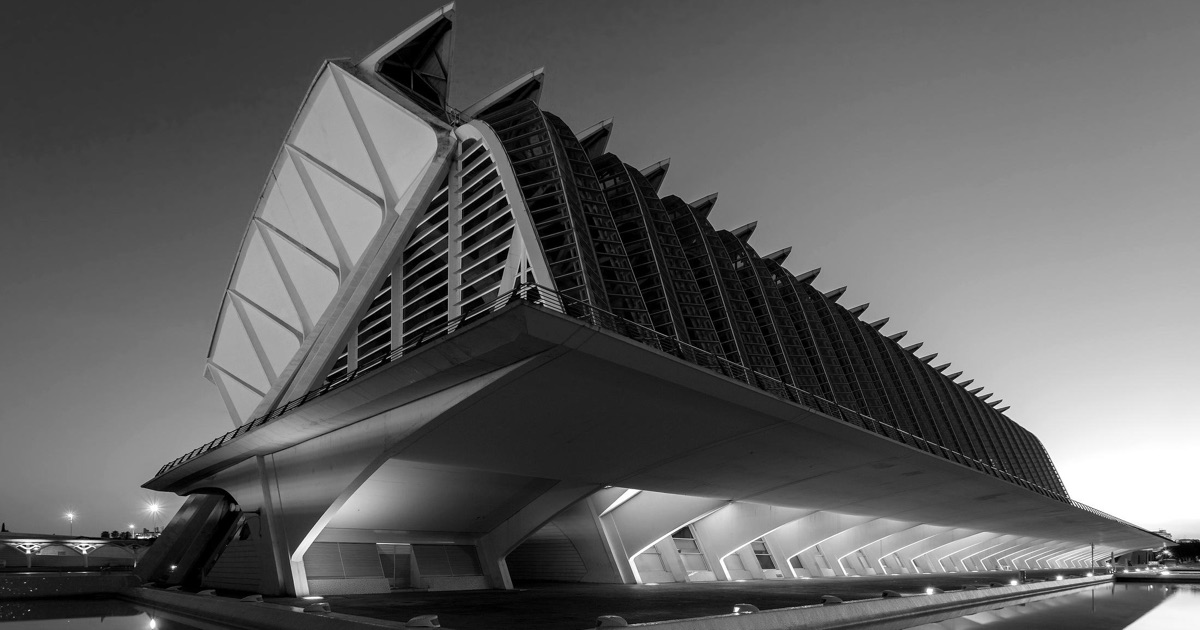
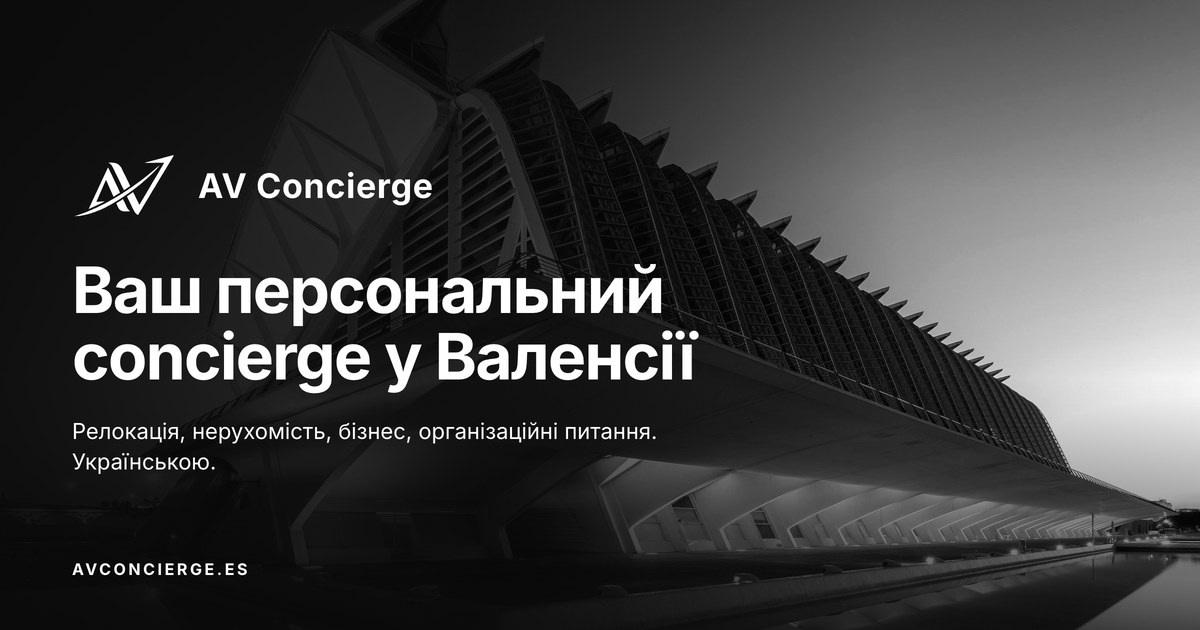
Branded OG card: mark, name, tagline over the hero photo

diff --git a/index.html b/index.html
@@ -12,14 +12,14 @@
 <meta property="og:locale" content="uk_UA">
 <meta property="og:title" content="AV Concierge — ваш персональний concierge у Валенсії">
 <meta property="og:description" content="Релокація, нерухомість, бізнес, організаційні питання. Шукаємо рішення та координуємо спеціалістів, щоб ви могли зосередитися на своїх цілях. Українською.">
-<meta property="og:image" content="https://avconcierge.es/og.jpg">
+<meta property="og:image" content="https://avconcierge.es/og.jpg?v=2">
 <meta property="og:image:width" content="1200">
 <meta property="og:image:height" content="630">
 <meta property="og:image:alt" content="AV Concierge, Валенсія">
 <meta name="twitter:card" content="summary_large_image">
 <meta name="twitter:title" content="AV Concierge — ваш персональний concierge у Валенсії">
 <meta name="twitter:description" content="Релокація, нерухомість, бізнес, організаційні питання у Валенсії. Українською.">
-<meta name="twitter:image" content="https://avconcierge.es/og.jpg">
+<meta name="twitter:image" content="https://avconcierge.es/og.jpg?v=2">
 <link rel="icon" href="favicon.svg" type="image/svg+xml">
 <link rel="preload" href="fonts/inter-latin.woff2" as="font" type="font/woff2" crossorigin>
 <link rel="preload" href="fonts/inter-cyrillic.woff2" as="font" type="font/woff2" crossorigin>
